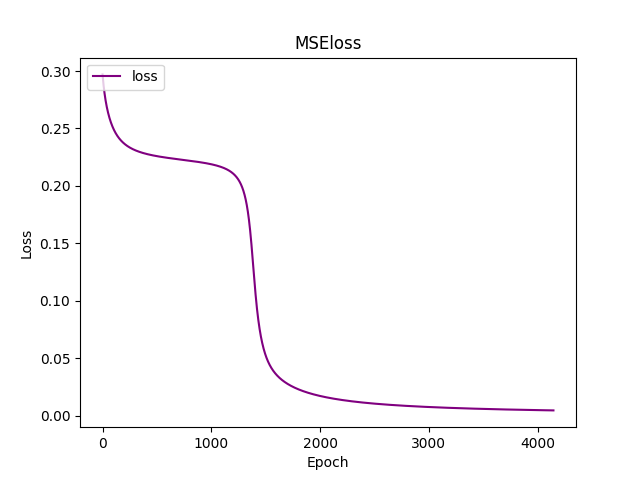
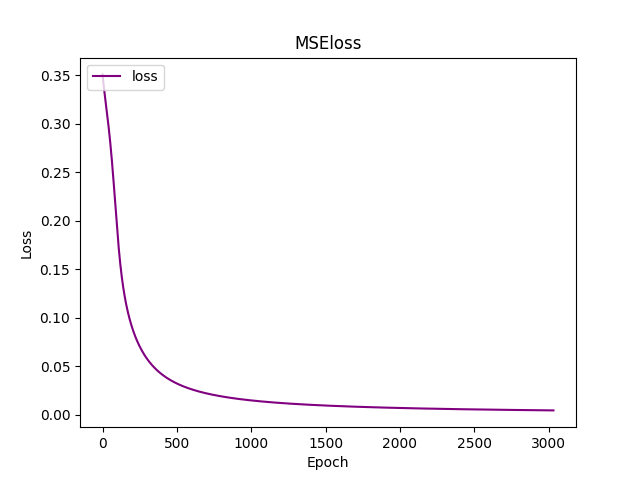
comments included

diff --git a/node.py b/node.py
@@ -13,6 +13,7 @@ class nodeModel:
         self.W_1 = [random.uniform(-1, 1) for _ in range(input_dim)]
         self.b_1 = random.uniform(-1, 1)
 
+    # Softmax function made using this source: https://www.loekvandenouweland.com/content/softmax-with-plain-python.html
     def softmax(self, scores):
         max_score = max(scores)
         exps = [math.exp(s - max_score) for s in scores]
@@ -25,6 +26,7 @@ class nodeModel:
         score_1 = sum(x[i] * self.W_1[i] for i in range(self.input_dim)) + self.b_1
         return self.softmax([score_0, score_1])
 
+    # Trains the model, source: https://www.geeksforgeeks.org/backpropagation-in-neural-network/
     def train(self, X, Y, epochs=5000, lr=0.01):
         lst_loss = []
         for epoch in range(epochs):
@@ -34,7 +36,7 @@ class nodeModel:
                 loss = sum((y[i] - output[i]) ** 2 for i in range(2))
                 total_loss += loss
 
-                # Compute gradients and update weights for both classes
+                # Updates weights for both classes
                 for i in range(self.input_dim):
                     grad_0 = 2 * (output[0] - y[0]) * output[0] * (1 - output[0]) * x[i]
                     grad_1 = 2 * (output[1] - y[1]) * output[1] * (1 - output[1]) * x[i]

diff --git a/link.py b/link.py
@@ -19,9 +19,9 @@ class linkData:
 
         set_as_label = {0: 'O', 1: 'X'}
         
-        # Use the prediction method that returns (class, confidence)
         predictions = model.predict(X_test)
 
+        # Prints out the prediction and confidence of the model and the actual awnser
         print("Test Results:")
         correct = 0
         for i, ((pred_class, confidence), true_vec) in enumerate(zip(predictions, Y_test)):
